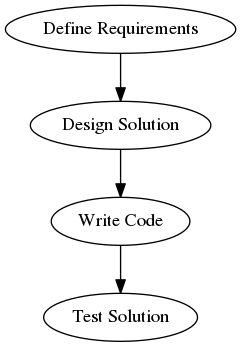
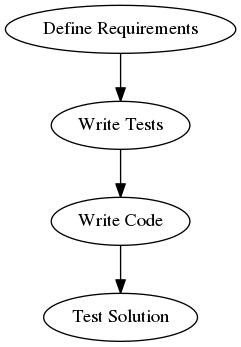
complete article

Changed region(s): [[0.1162, 0.2882, 0.9004, 0.4323]]

diff --git a/posets/posets-by-example.md b/posets/posets-by-example.md
@@ -1,14 +1,69 @@
 Posting this as someone who learns best from concrete examples and geometric representations, on the basis that trying to explain something is a good way to test one's understanding.  I ask forbearance from those with more natural mathematical ability.  Corrections or comments gratefully received.
 
+The examples below all consider the subject matter of completing tasks.  Assume order means "must be completed before": so \\(x \le y\\) means "task \\(x\\) must be completed before task \\(y\\)".
+
+## The Landscape
+
 First, a picture:
 
+![order Venn Diagram](https://raw.githubusercontent.com/sfinnie/CategoryTheoryCourseNotes/master/posets/img/orderVennDiagram.gif)
 
+This says:
+ * Sets are either ordered or unordered
+ * All Orders are also Posets
+ * All Posets are also Preorders
 
-Let's consider the subject matter of completing tasks.  Assume order means "must be completed before": so \\(x \le y\\) means "task \\(x\\) must be completed before task \\(y\\)".  Now for some examples
+Why the subset relations among Preorders, Posets and Orders?  Because of the rules that they must obey.  We'll look at that below; but first, let's cover off sets without any order.
 
-## Example 1 - no order
+## No Order
 
 Consider cleaning the house.  Let's assume there are 3 rooms: bathroom, bedroom and kitchen.  To clean the house, we need to clean all three rooms.  It doesn't matter what order they're cleaned in: there's no dependence.
 
 ![unordered tasks](https://raw.githubusercontent.com/sfinnie/CategoryTheoryCourseNotes/master/posets/img/unordered.png)
+ 
+## Preorders
+
+Preorders must obey 2 rules:
+
+1. **reflexivity**: \\(x \le x\\)
+
+2. **transitivity** \\(x \le y\\) and \\(y \le z\\) imply \\(x \le z\\).
+
+As an example, consider a (very simplified) iterative approach to writing software:
+
+![Preorder Example](https://raw.githubusercontent.com/sfinnie/CategoryTheoryCourseNotes/master/posets/img/dcg.png)
+
+The arrows are straightforward: we must `Define Requirements` before `Write Code`, and `Write Code` before `Test Solution`. We can also combine those according to rule (2) - so `Define Requirements` before `Test Solution`.  
+
+What about the loop?  That's OK according to rule 1.  It says it's OK for `Define Requirements` to come before itself.  
+
+Note also there's no arrow connecting `Write Code` and `Write Tests`.  Again, that's fine: there's nothing in the rules to say *every* task must be related to every other.  
+
+## Posets
+
+Posets obey both rules for Preorders, and add a third:
+
+1. **antisymmetry**: if \\(x \le y\\) and \\(y \le \\x) then \\(x = y\\)
+
+Our iterative process above fails this rule.  Why?  Substitute `Define Requirements` for \\(x\\) and `Test Solution` for \\(y\\) in the antisymmetry rule.  `Define Requirements` does come before `Test Solution` so \\(x \le y\\).  `Test Solution` also comes before `Define Requirements`.  So \\(y \le x\\).  But `Define Requirements` is a different task to `Test Solution`.  So \\(x = y\\) is not true.  So the iterative process isn't antisymmetric: it's not a poset.  We can make it so by removing the loop, and creating a "waterfall" process:
+
+![Poset Example](https://raw.githubusercontent.com/sfinnie/CategoryTheoryCourseNotes/master/posets/img/dag.png)
+
+
+## Orders
+
+Orders obey all the rules for Posets, and add yet another:
+
+1. **trichotomy**: for all \\(x,y\\) we either have \\(x\le y\\) or \\(y \le x\\).
+
+Antisymmetry removed loops in our task ordering.  Trichotomy removes parallel paths.  Why?  Let \\(x\\) be `Write Code` and \\(y\\) be `Write Tests`.  There's no arrow, or sequence of arrows, that connect the two.  So we don't have \\(x,y\\), nor do we have \\(y \le x\\). Trichotomy fails.
+
+We can resolve that by linearising the process.  Let's follow [Test-Driven Development](https://en.wikipedia.org/wiki/Test-driven_development) and write tests before the code:
+
+![Order Example](https://raw.githubusercontent.com/sfinnie/CategoryTheoryCourseNotes/master/posets/img/sequence.png)
+
+
+  Now for some examples
+
+
 
